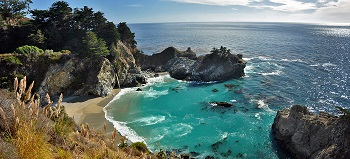
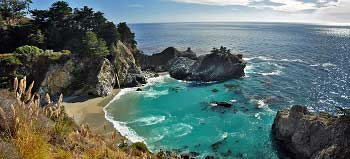
saved imgs for faster loading

diff --git a/static/blog/barnacle-goes-mobile.html b/static/blog/barnacle-goes-mobile.html
@@ -15,29 +15,29 @@ Here's how it works:
 </p>
 <div class='row-fluid'>
   <div class='span5'>
-    <img src='/static/img/mobile/manage0.png'>
+    <img src='/static/img/mobile/manage0.jpg'>
     <p class='caption'>Sync your routes with the server. Manage your routes by selecting which ones you are actively driving at any time. The other routes remain inactive.</p>
   </div>
   <div class='span5 offset1'>
-    <img src='/static/img/mobile/create0.png'><br>
+    <img src='/static/img/mobile/create0.jpg'><br>
     <p class='caption'>Or, create a new route. </p>
   </div>  
 </div>
 <div class='row-fluid'><br></div>
 <div class='row-fluid'>
   <div class='span10'>
-    <img src='/static/img/mobile/view0.png' class='img-polaroid'><br>
+    <img src='/static/img/mobile/view0.jpg' class='img-polaroid'><br>
     <p class='caption'>Barnacle will generate a page that you can share with your customers and friends so that they can see your updates.</p>
   </div>
 </div>
 <div class='row-fluid'><br></div>
 <div class='row-fluid'>
   <div class='span5'>
-    <img src='/static/img/mobile/track0.png'><br>
+    <img src='/static/img/mobile/track0.jpg'><br>
     <p class='caption'>Set your route to give updates at regular intervals.</p>
   </div>
   <div class='span5 offset1'>
-    <img src='/static/img/mobile/track1.png'><br>
+    <img src='/static/img/mobile/track1.jpg'><br>
     <p class='caption'>When you arrive at your destination, the recipient will give you a confirmation code. Confirm your delivery and get paid instantly! </p>
   </div>  
 </div>

diff --git a/templates/track/tracker.html b/templates/track/tracker.html
@@ -14,29 +14,29 @@ Here's how it works:
 </p>
 <div class='row-fluid'>
   <div class='span5'>
-    <img src='/static/img/mobile/manage0.png'>
+    <img src='/static/img/mobile/manage0.jpg'>
     <p>Sync your routes with the server. Manage your routes by selecting which ones you are actively driving at any time. The other routes remain inactive.</p>
   </div>
   <div class='span5 offset1'>
-    <img src='/static/img/mobile/create0.png'><br>
+    <img src='/static/img/mobile/create0.jpg'><br>
     <p>Or, create a new route. </p>
   </div>  
 </div>
 <div class='row-fluid'><br></div>
 <div class='row-fluid'>
   <div class='span10'>
-    <img src='/static/img/mobile/view0.png' class='img-polaroid'><br>
+    <img src='/static/img/mobile/view0.jpg' class='img-polaroid'><br>
     <p>Barnacle will generate a page that you can share with your customers and friends so that they can see your updates.</p>
   </div>
 </div>
 <div class='row-fluid'><br></div>
 <div class='row-fluid'>
   <div class='span5'>
-    <img src='/static/img/mobile/track0.png'><br>
+    <img src='/static/img/mobile/track0.jpg'><br>
     <p>Set your route to give updates at regular intervals.</p>
   </div>
   <div class='span5 offset1'>
-    <img src='/static/img/mobile/track1.png'><br>
+    <img src='/static/img/mobile/track1.jpg'><br>
     <p>When you arrive at your destination, the recipient will give you a confirmation code. Confirm your delivery and get paid instantly! </p>
   </div>  
 </div>

diff --git a/templates/launch/filllres.html b/templates/launch/filllres.html
@@ -29,7 +29,7 @@
     <p>
     We currently have active drivers between the SF Bay Area and Los Angeles.</p>
     <div class='visible-desktop'>
-    <img width='80%' src='/static/img/res_map.png' class='img-polaroid visible-desktop'><br></div>
+    <img width='80%' src='/static/img/res_map.jpg' class='img-polaroid visible-desktop'><br></div>
     <p><a href="/search"><button class="btn btn-info btn-small">Search</button></a> 
     outside these areas.
     <br></p>  

diff --git a/templates/user/apply.html b/templates/user/apply.html
@@ -19,12 +19,6 @@
     <script src="/static/js/jquery-ui-1.10.2.custom.min.js"></script>
 </head>
   <body class="apply">
-<div class="row" style='height: 20px'></div>    
-<div class="row-fluid" id="navbar">
-  <div class="span4 offset1">
-    <a href='/'><img class='apply-logo' src="/static/img/barnaclelogo.png"></a>
-  </div>
-</div>  
 <div class="row" style='height: 20px'>    <a id='top'></a></div>  
 <div class="row-fluid">
   <div class="span10 offset1">

diff --git a/templates/springbreak.html b/templates/springbreak.html
@@ -59,7 +59,7 @@
       <i>What Do I Win?</i>
       <br/>
       The winner will receive one aluminum "gift bag" from our friends at Mumford Brewery.<br/>
-      <center><img src="/static/img/springbreak-aluminum.JPG" width="100"></center>
+      <center><img src="/static/img/springbreak-aluminum.jpg" width="100"></center>
       <br/><br/>
       <i>Cool!  What's Inside the Gift Bag?</i>
           

diff --git a/static/css/track.css b/static/css/track.css
@@ -2,7 +2,7 @@ h2 {    font: 2.4em/1.0em 'Sacramento','Open Sans', sans-serif;}
 h4 {    font: 1.5em/1.6em 'Open Sans', sans-serif;}
 
 .splash_html {
-background: url('/static/img/splash_back.png') no-repeat center center fixed;
+background: url('/static/img/back_ql.jpg') no-repeat center center fixed;
 
 -webkit-background-size: cover;
 -moz-background-size: cover;

diff --git a/static/css/splash.css b/static/css/splash.css
@@ -46,8 +46,7 @@ p {
     width:100%;    
 }
 .splash_html {
-background: url('/static/img/splash_back.png') no-repeat center center fixed;
-
+background: url('/static/img/back_ql.jpg') no-repeat center center fixed;
 -webkit-background-size: cover;
 -moz-background-size: cover;
 -o-background-size: cover;
